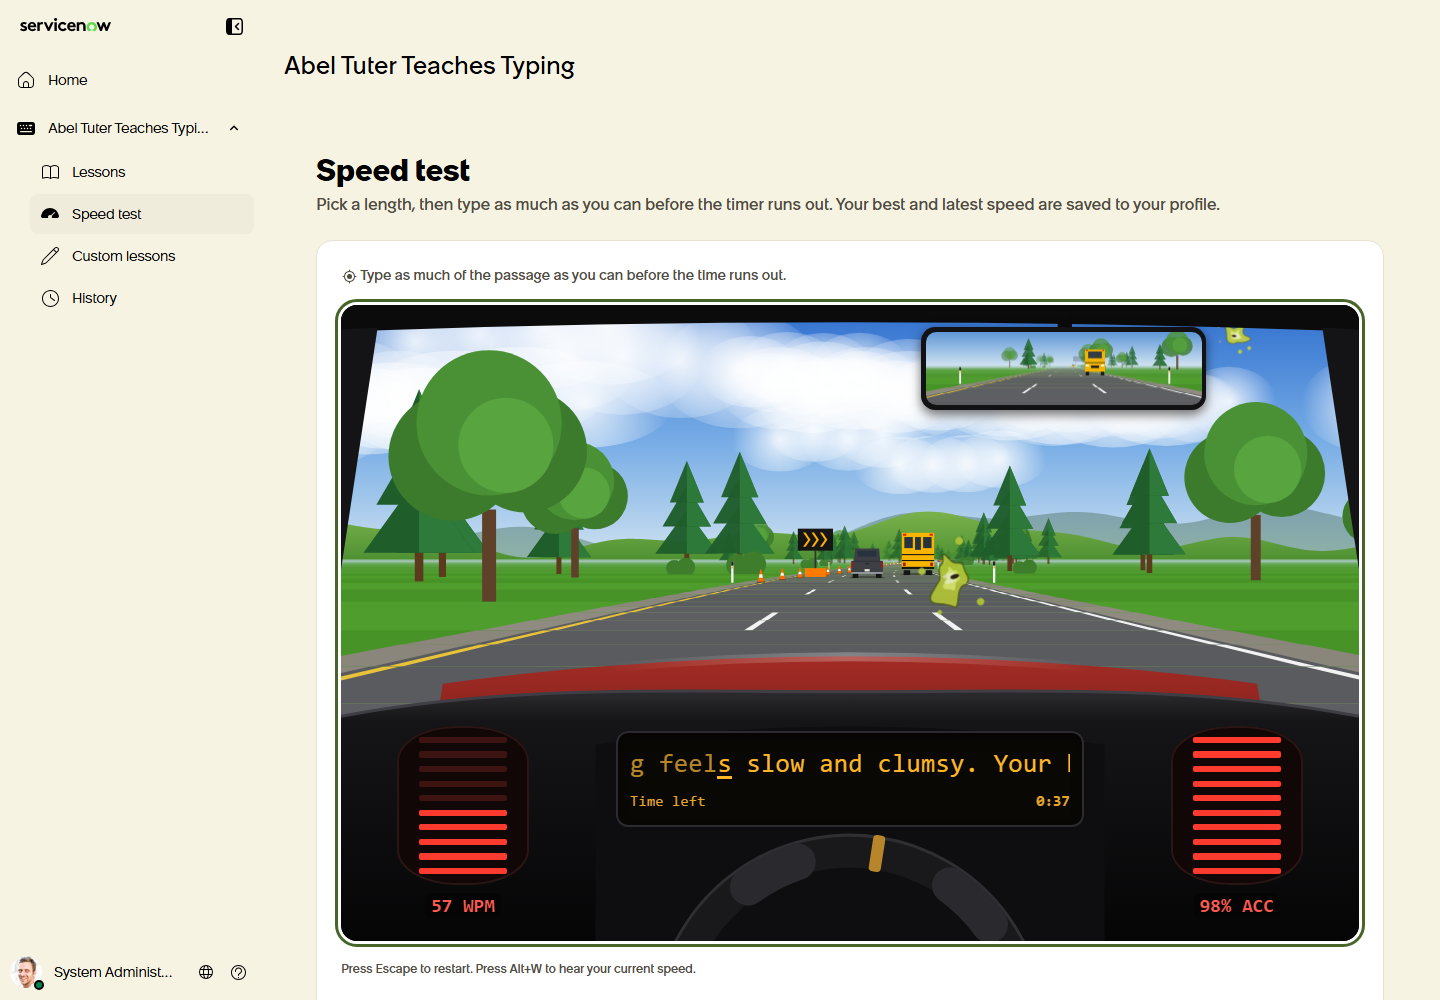
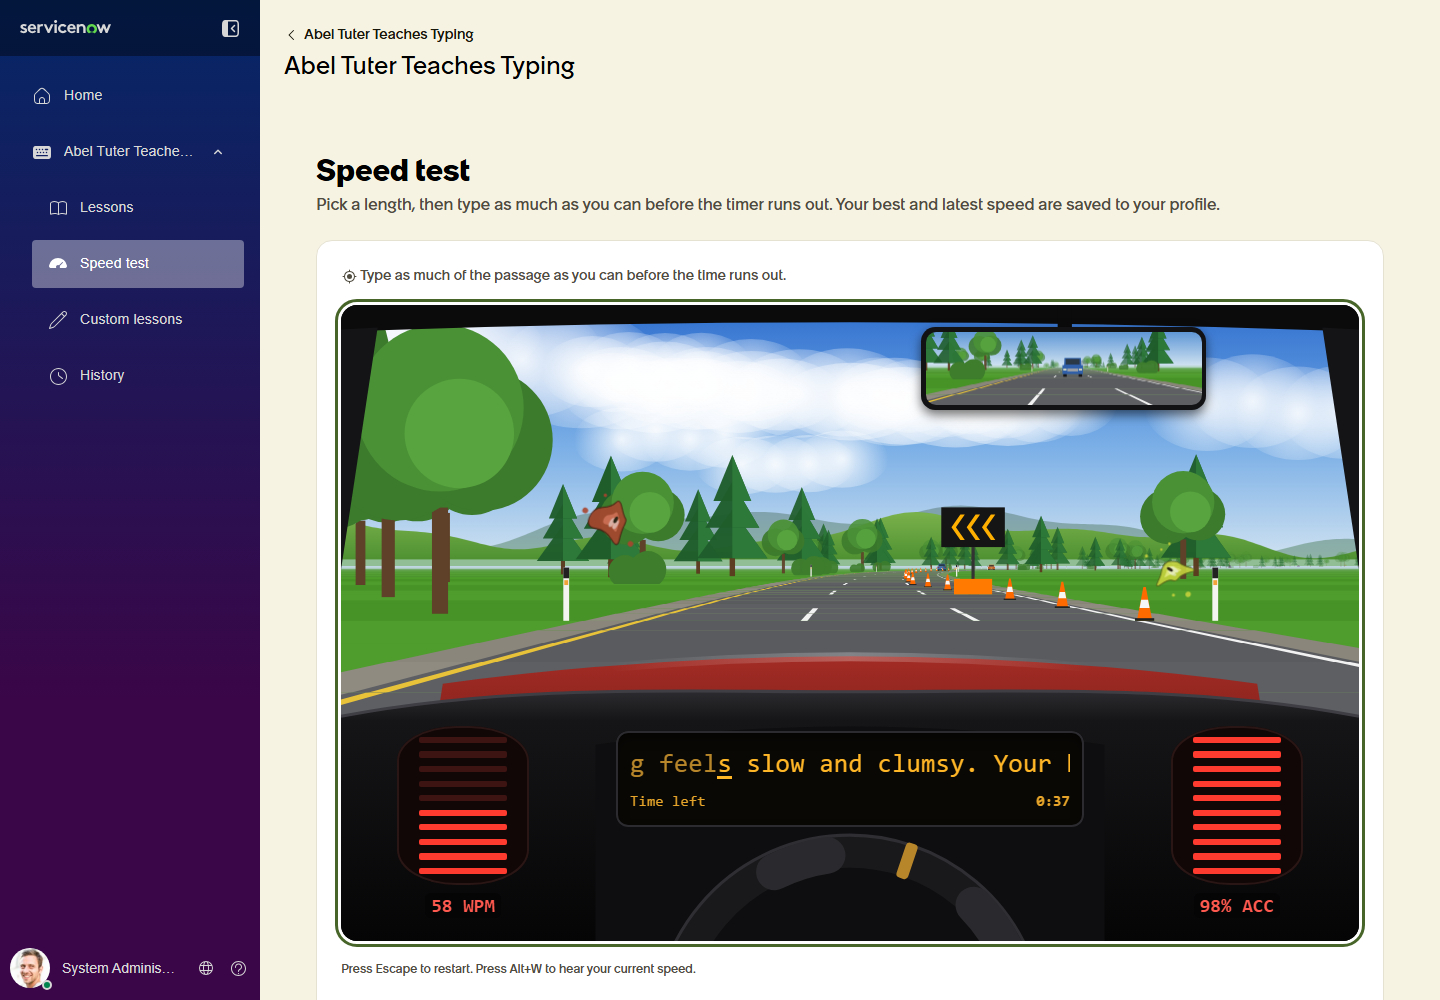
updated speed-test.png with fresh screenshot

diff --git a/README.md b/README.md
@@ -4,7 +4,7 @@ A typing tutor that runs on ServiceNow. Players work through structured lessons,
 
 The speed test can be played as a driving game, after the one in *Mavis Beacon Teaches Typing*: the car's speed follows your typing, it overtakes traffic and steers round road works, and every mistyped key splats a bug on the windscreen.
 
-![The Speed test driving game: a highway seen from the driver's seat, with a school bus and road works ahead, bug splats on the windscreen, a rear-view mirror, and a dashboard showing the passage being typed, the time left, 57 WPM and 98% accuracy](docs/images/speed-test.png)
+![The Speed test driving game: a highway seen from the driver's seat, with road works and traffic cones ahead, bug splats on the windscreen, a car in the rear-view mirror, and a dashboard showing the passage being typed, the time left, 58 WPM and 98% accuracy](docs/images/speed-test.png)
 
 It is a scoped ServiceNow application (`x_snc_ttt`), built with AIUX (Lit web components rendered on the server) and the Now SDK, with its tables, security and tests defined in code as Fluent metadata.
 

diff --git a/tuter-teaches-typing/README.md b/tuter-teaches-typing/README.md
@@ -4,7 +4,7 @@ A typing tutor that runs on ServiceNow. Players work through structured lessons,
 
 The speed test can be played as a driving game, after the one in *Mavis Beacon Teaches Typing*: the car's speed follows your typing, it overtakes traffic and steers round road works, and every mistyped key splats a bug on the windscreen.
 
-![The Speed test driving game: a highway seen from the driver's seat, with a school bus and road works ahead, bug splats on the windscreen, a rear-view mirror, and a dashboard showing the passage being typed, the time left, 57 WPM and 98% accuracy](docs/images/speed-test.png)
+![The Speed test driving game: a highway seen from the driver's seat, with road works and traffic cones ahead, bug splats on the windscreen, a car in the rear-view mirror, and a dashboard showing the passage being typed, the time left, 58 WPM and 98% accuracy](docs/images/speed-test.png)
 
 It is a scoped ServiceNow application (`x_snc_ttt`), built with AIUX (Lit web components rendered on the server) and the Now SDK, with its tables, security and tests defined in code as Fluent metadata.
 
